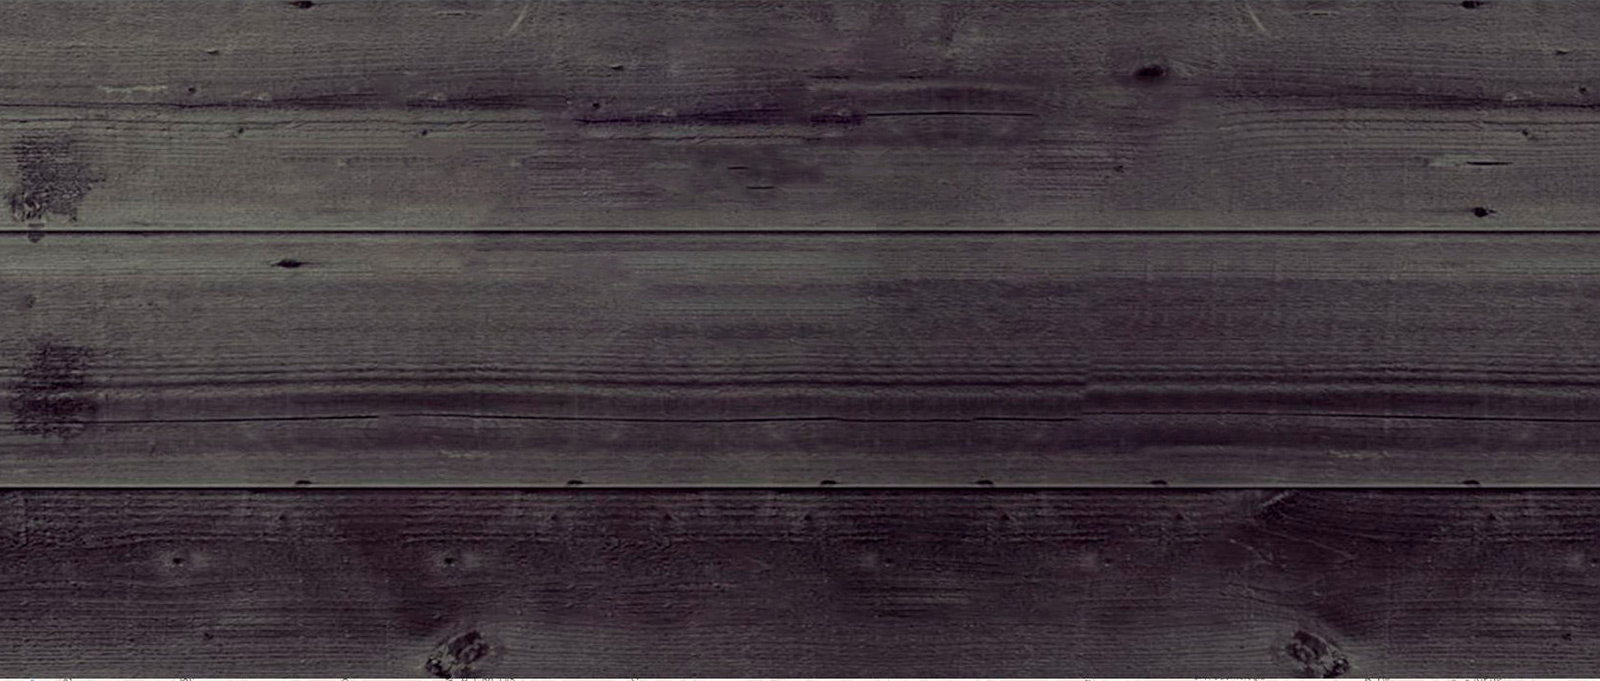
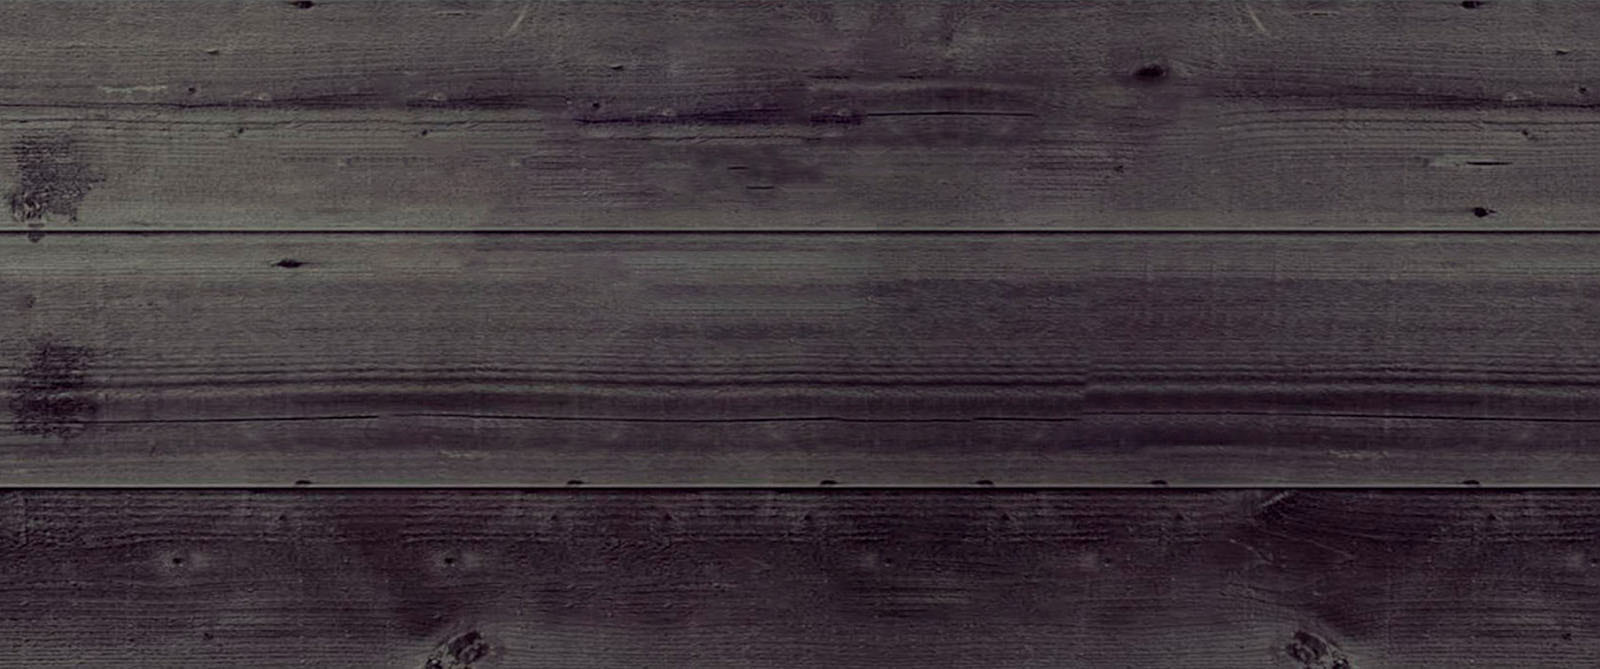
css correção de background

diff --git a/css/style-index.css b/css/style-index.css
@@ -38,7 +38,7 @@ header {
   display: flex;
   justify-content: space-between;
   align-items: center;
-  margin-left: 0.5rem;
+  /* margin-left: 0.5rem; */
 }
 
 body {
@@ -127,15 +127,15 @@ nav h2 a:focus,
 .destaque {
   height: 88vh;
   background-image: url('../imagens/fundo-destaque.jpg');
-  background-position: center;
+  /* background-position: center; */
   background-attachment: fixed;
-  background-repeat: no-repeat;
+  /* background-repeat: no-repeat; */
   display: flex;
   flex-direction: column;
   justify-content: center;
   align-items: center;
   /*O cover define especificamente a imagem para cobrir todo o elemento ao qual é aplicado.*/
-  /* background-size: cover; */
+  background-size: cover;
 }
 
 .destaque h2,
@@ -221,9 +221,10 @@ footer {
 
 .historia {
   background-image: url("../imagens/fundo-madeira.jpg");
-  background-position: center;
+  /* background-position: center; */
   background-attachment: fixed;
-  background-repeat: no-repeat;
+  /* background-repeat: no-repeat; */
+  background-size: cover;
   display: flex;
   flex-direction: column;
   justify-content: center;
@@ -243,6 +244,7 @@ footer {
   width: 100%;
   margin-bottom: 2rem;
   background-size: cover;
+  
 }
 
 .localizacao iframe {
